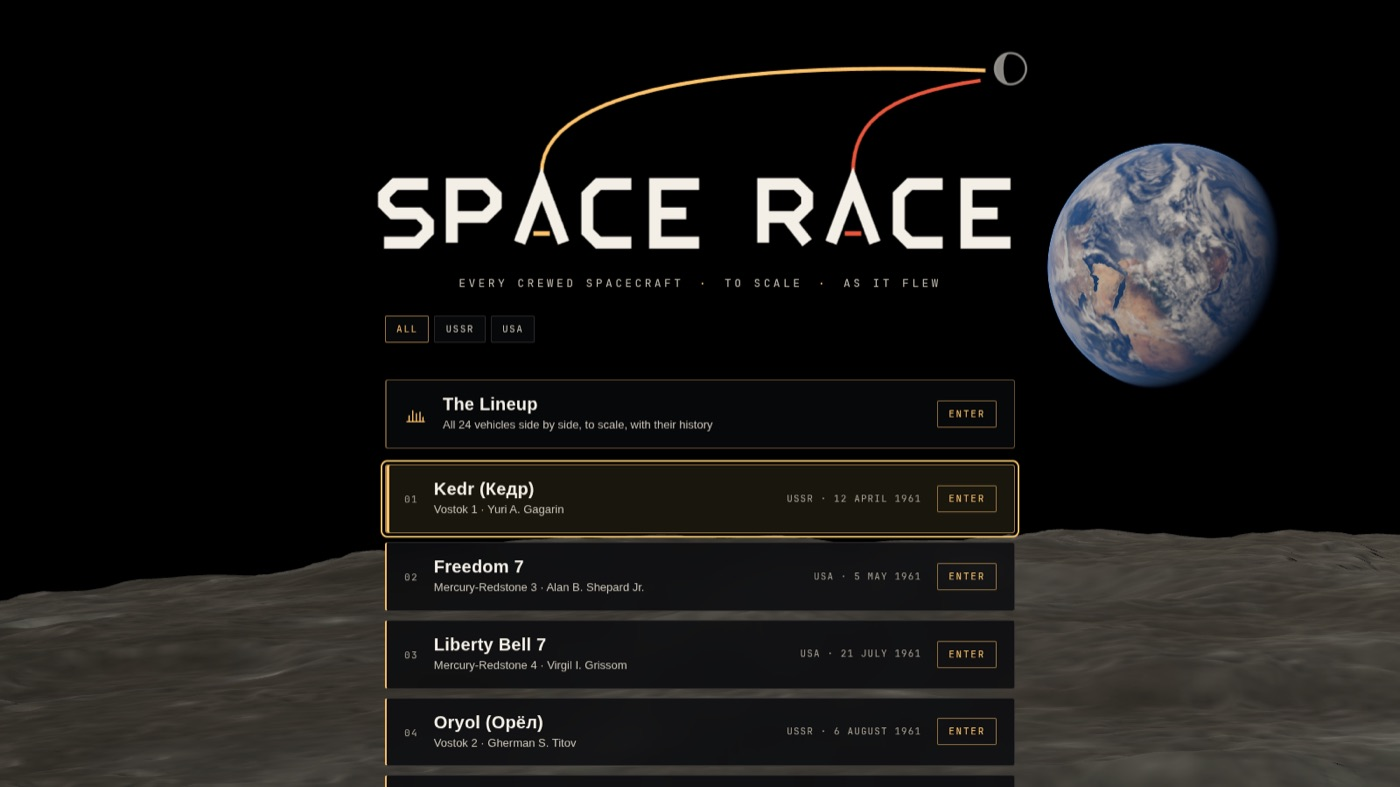
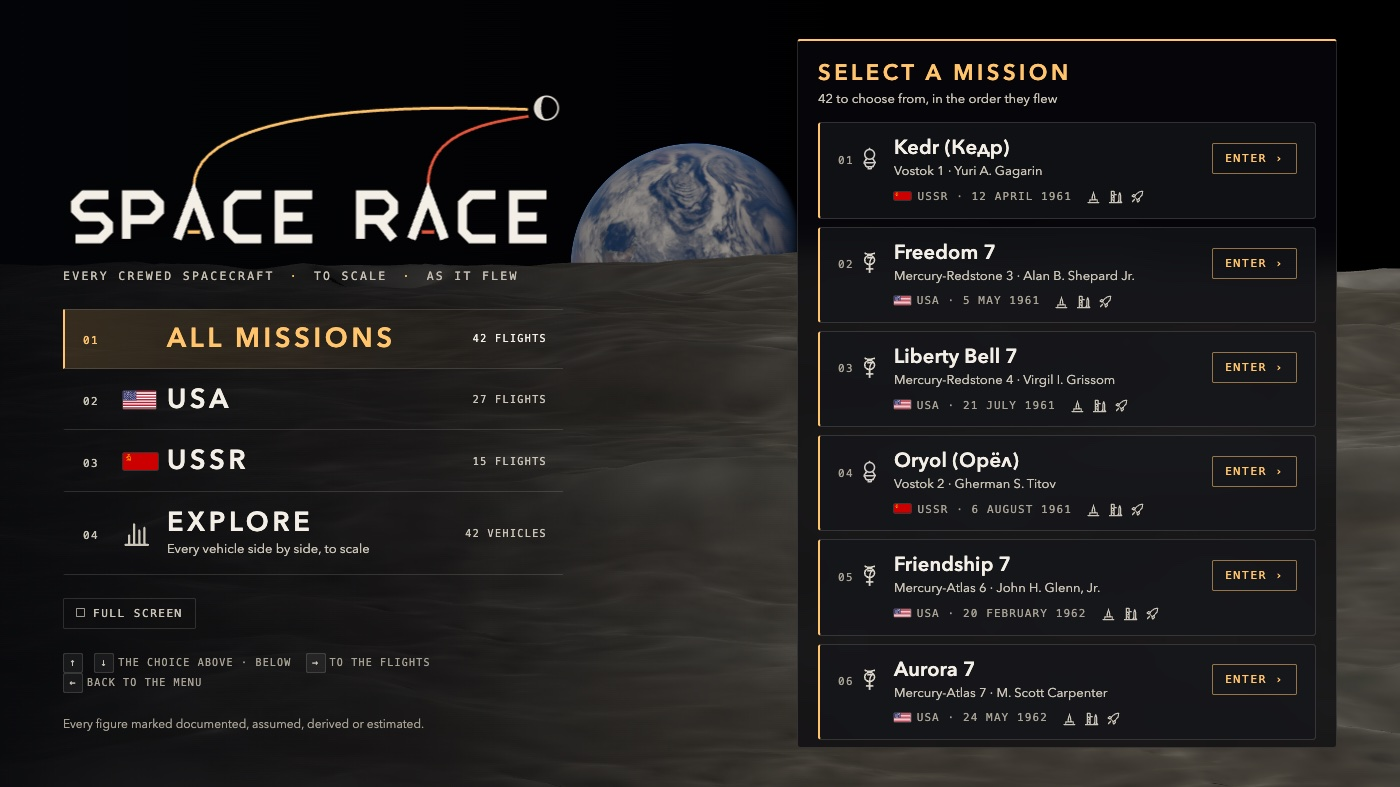
docs(readme): the front page's picture and words as the menu now is

diff --git a/README.md b/README.md
@@ -15,7 +15,7 @@ can be flown from liftoff to landing: as it was flown, or by your own hand.
 ### [Open it: jamesbrink.online/space-race](https://jamesbrink.online/space-race/)
 
 <p align="center">
-  <a href="https://jamesbrink.online/space-race/"><img src="docs/readme/front.jpg" alt="The front page: the list of flights over the Earth seen from the Moon" width="100%"></a>
+  <a href="https://jamesbrink.online/space-race/"><img src="docs/readme/front.jpg" alt="The front page: a main menu and the missions to choose from, over the Earth seen from the Moon" width="100%"></a>
 </p>
 
 ## What is in it
@@ -55,9 +55,9 @@ and says why.
 
 And two that belong to no one flight:
 
-- **The Lineup.** Every vehicle built so far on one floor at one scale, a person beside each, with a
+- **The Lineup** (Explore, on the front page's menu). Every vehicle built so far on one floor at one scale, a person beside each, with a
   timeline of the race under the row. Stand two together to compare them, or see the spacecraft alone.
-- **The front page.** The list of flights over the Earth, seen from out by the Moon.
+- **The front page.** A main menu and the missions to choose from, over the Earth seen from out by the Moon.
 
 The whole thing can be redrawn as an inked, cel-shaded drawing (`T`), and works on a phone.
 
